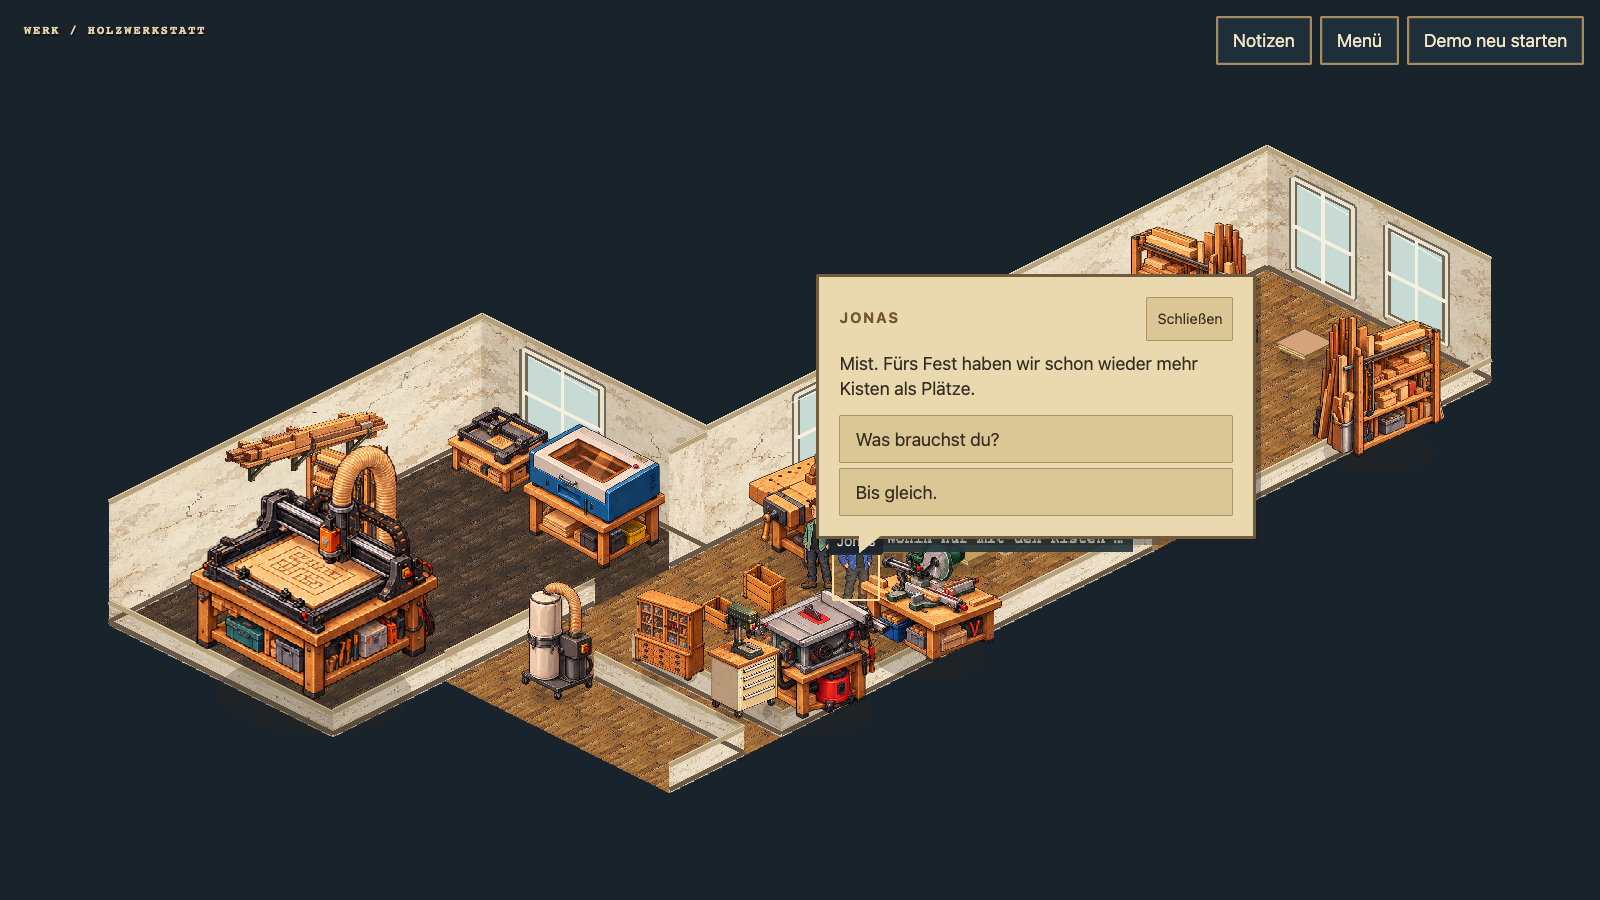
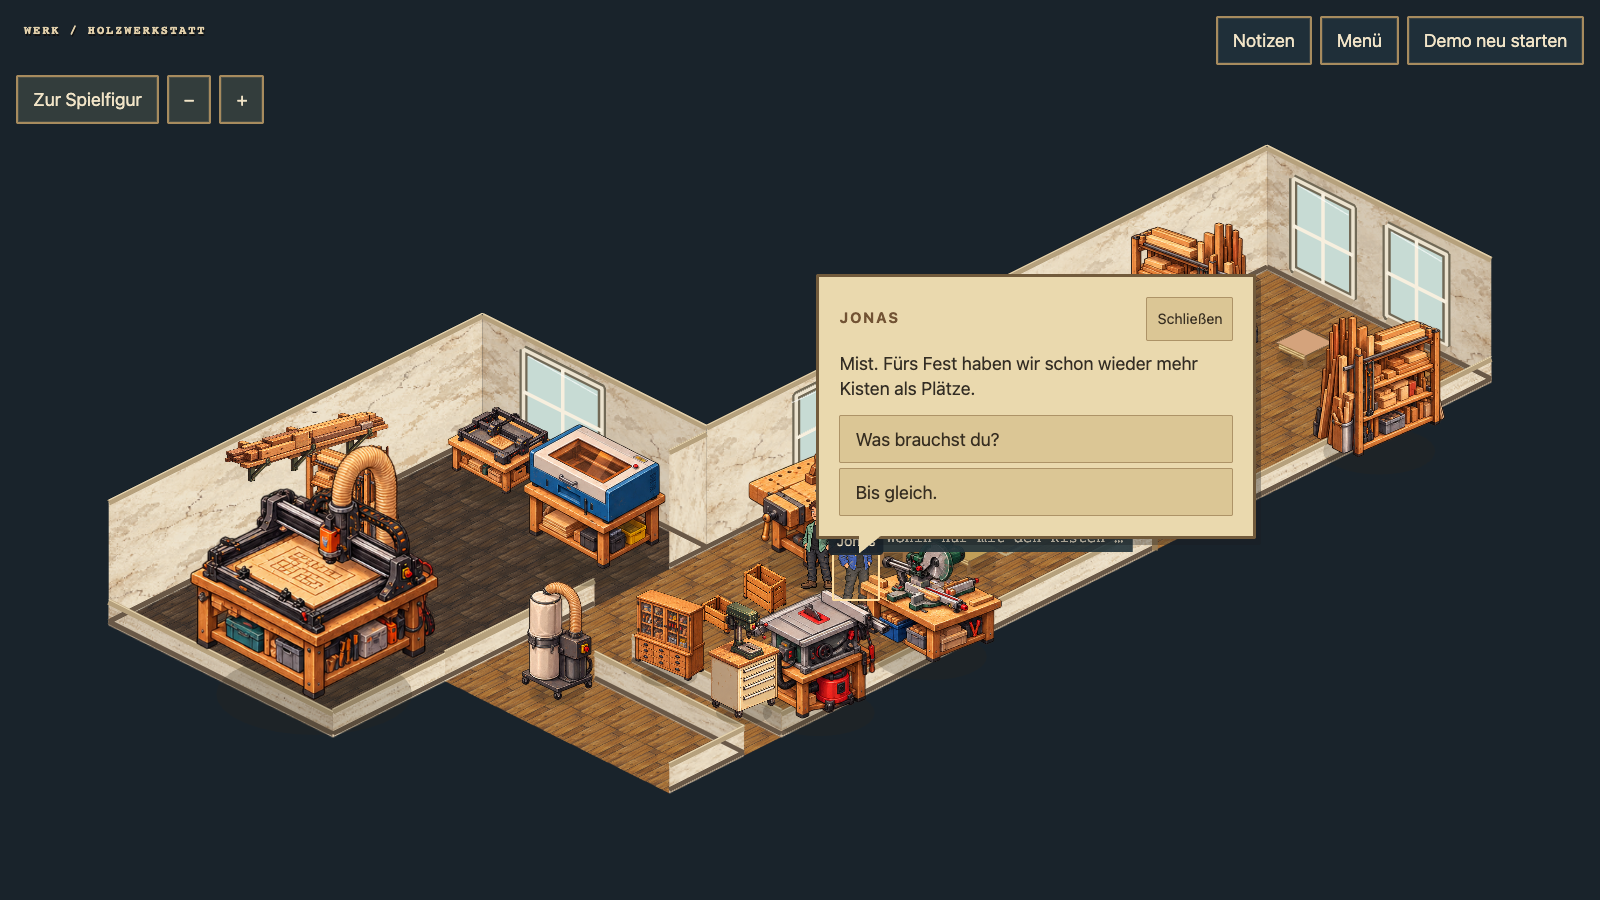
Improve demo clarity with high-DPI rendering and player camera

diff --git a/game/source/room.ts b/game/source/room.ts
@@ -27,6 +27,7 @@ export class Room extends Phaser.Scene {
   private origin = { x: 480, y: 155 };
   private frames = 0; private sampleStart = performance.now();
   private zoomFactor = 1;
+  private overview = false;
   private reduced = matchMedia('(prefers-reduced-motion: reduce)').matches;
   constructor(private hooks: RoomHooks) { super('werk-room'); this.cell = { ...hooks.state().cell }; }
   stop() {
@@ -39,18 +40,24 @@ export class Room extends Phaser.Scene {
   private world(p: Cell) { const q = iso(p); return { x: q.x + this.origin.x, y: q.y + this.origin.y }; }
   private cameraSize = () => {
     if (!this.actor) return;
-    const camera = this.cameras.main, w = this.scale.width, h = this.scale.height;
+    const camera = this.cameras.main, density = visitDemo ? 1 / this.scale.zoom : 1, w = this.scale.width / density, h = this.scale.height / density;
     if(visitDemo){
       const corners=roomConfig!.floorRegions.flatMap(r=>[{x:r.x-.5,y:r.y-.5},{x:r.x+r.w-.5,y:r.y-.5},{x:r.x-.5,y:r.y+r.d-.5},{x:r.x+r.w-.5,y:r.y+r.d-.5}]).map(p=>this.world(p));
       const minX=Math.min(...corners.map(p=>p.x)),maxX=Math.max(...corners.map(p=>p.x)),minY=Math.min(...corners.map(p=>p.y))-140,maxY=Math.max(...corners.map(p=>p.y));
-      camera.setZoom(Math.max(.55,Math.min(1.5,(w-80)/(maxX-minX+80),(h-120)/(maxY-minY+80)))*this.zoomFactor);
-      if(w<650||this.zoomFactor>1.25)camera.startFollow(this.actor,true,.12,.12);else{camera.stopFollow();camera.centerOn((minX+maxX)/2,(minY+maxY)/2);}
+      if(this.overview){
+        camera.setZoom(Math.max(.35,Math.min(1.5,(w-80)/(maxX-minX+80),(h-120)/(maxY-minY+80)))*density);
+        camera.stopFollow();camera.centerOn((minX+maxX)/2,(minY+maxY)/2);
+      }else{
+        camera.setZoom((w<650?1.65:2.25)*this.zoomFactor*density);
+        camera.startFollow(this.actor,true,.12,.12);
+      }
       return;
     }
     camera.setZoom(Math.max(w < 650 ? 1 : .65, Math.min(1.8, Math.min(w / 780, h / 570))) * this.zoomFactor);
     if (w < 650 || this.zoomFactor > 1.25) camera.startFollow(this.actor, true, .12, .12);
     else { camera.stopFollow(); camera.centerOn(480, visitDemo ? 290 : 275); }
   };
+  setOverview(value: boolean) { this.overview = value; this.cameraSize(); }
   zoom(amount: number) { this.zoomFactor = Math.max(.8, Math.min(1.6, this.zoomFactor + amount)); this.cameraSize(); }
   setMeasuring(value: boolean) { this.measuring = value; this.refresh(); }
   ping(id: string) {
@@ -167,9 +174,9 @@ export class Room extends Phaser.Scene {
     }
     const site=this.world(objects.find(o=>o.id==='site')!);
     this.ruler=this.add.graphics().setDepth(2500);
-    this.rulerText=this.add.text(site.x,site.y+48,'90 cm',{fontSize:'18px',color:'#ffe0a3',backgroundColor:'#21323c'}).setOrigin(.5).setDepth(2500);
+    this.rulerText=this.add.text(site.x,site.y+48,'90 cm',{fontSize:'18px',color:'#ffe0a3',backgroundColor:'#21323c'}).setOrigin(.5).setDepth(2500).setResolution(visitDemo?4:1);
     const jonas=this.world(objects.find(o=>o.id==='jonas')!);
-    this.jonasBubble=this.add.text(jonas.x+18,jonas.y-70,'Wohin nur mit den Kisten …',{fontSize:'13px',color:'#f0e5cd',backgroundColor:'#24353be8',padding:{x:8,y:5}}).setDepth(3000);
+    this.jonasBubble=this.add.text(jonas.x+18,jonas.y-70,'Wohin nur mit den Kisten …',{fontSize:'13px',color:'#f0e5cd',backgroundColor:'#24353be8',padding:{x:8,y:5}}).setDepth(3000).setResolution(visitDemo?4:1);
     this.actor=this.figure(0,0,false);this.resetPosition();
     this.scale.on('resize',this.cameraSize);
     this.input.on('pointerdown',(pointer:Phaser.Input.Pointer)=>{
@@ -202,11 +209,11 @@ export class Room extends Phaser.Scene {
     if(!this.actor)return;
     this.frames++;const elapsed=performance.now()-this.sampleStart;
     if(elapsed>=1000){this.hooks.metrics(`${Math.round(this.frames*1000/elapsed)} fps`);this.frames=0;this.sampleStart=performance.now();}
-    const cam=this.cameras.main;
+    const cam=this.cameras.main, screenScale=visitDemo?this.scale.zoom:1;
     const points:Hotspot[]=objects.filter(o=>!(o.id==='crates'&&this.hooks.state().quest.completed)).map(o=>{
-      const p=this.world({x:o.x+((o.w??1)-1)/2,y:o.y+((o.d??1)-1)/2});return{id:o.id,label:o.label,x:(p.x-cam.worldView.x)*cam.zoom,y:(p.y-Math.min(o.height/2,25)-cam.worldView.y)*cam.zoom};
+      const p=this.world({x:o.x+((o.w??1)-1)/2,y:o.y+((o.d??1)-1)/2});return{id:o.id,label:o.label,x:(p.x-cam.worldView.x)*cam.zoom*screenScale,y:(p.y-Math.min(o.height/2,25)-cam.worldView.y)*cam.zoom*screenScale};
     });
-    if(this.measuring){const p=this.world(objects.find(o=>o.id==='site')!);for(const [id,offset]of [['measure_start',-55],['measure_end',55]] as const)points.push({id,label:id==='measure_start'?'Anfang des Maßbands':'Ende des Maßbands',x:(p.x+offset-cam.worldView.x)*cam.zoom,y:(p.y+28-cam.worldView.y)*cam.zoom});}
+    if(this.measuring){const p=this.world(objects.find(o=>o.id==='site')!);for(const [id,offset]of [['measure_start',-55],['measure_end',55]] as const)points.push({id,label:id==='measure_start'?'Anfang des Maßbands':'Ende des Maßbands',x:(p.x+offset-cam.worldView.x)*cam.zoom*screenScale,y:(p.y+28-cam.worldView.y)*cam.zoom*screenScale});}
     this.hooks.hotspots(points);
     if(this.hooks.paused()||document.hidden)return;
     if(!this.target){

diff --git a/game/source/main.ts b/game/source/main.ts
@@ -255,6 +255,9 @@ $('menu-button').onclick = menu;
 if(visitDemo){
  const badge=document.createElement('div');badge.id='demo-badge';badge.textContent='WERK / HOLZWERKSTATT';document.getElementById('play')!.append(badge);
  const restart=document.createElement('button');restart.id='demo-restart';restart.textContent='Demo neu starten';restart.onclick=()=>{for(const d of [talk,panel,planner])if(d.open)d.close();$('new-game').click();};$('hud').append(restart);
+ const views=document.createElement('div');views.id='view-controls';$('play').append(views);
+ let overview=false;const view=addButton(views,'Gesamtansicht',()=>{overview=!overview;room.setOverview(overview);view.textContent=overview?'Zur Spielfigur':'Gesamtansicht';view.setAttribute('aria-pressed',String(overview));});view.setAttribute('aria-pressed','false');
+ addButton(views,'−',()=>room.zoom(-.2)).setAttribute('aria-label','Ansicht weiter');addButton(views,'+',()=>room.zoom(.2)).setAttribute('aria-label','Ansicht näher');
  const note=document.createElement('p');note.className='secondary';note.textContent='Spielbare Technikdemo · vereinfachter Raum nach Werkstattfotos. Messung und Bau sind simuliert.';$('start').append(note);
 }
 async function exportState(previous = false) {
@@ -360,7 +363,14 @@ room = new Room({ state: () => state, paused, interact: inspect, say, hotspots,
   metrics: text => { metrics = text; updateDebug(); },
   ready: () => { performance.mark('werk-ready'); document.body.dataset.ready = 'true'; },
 });
-new Phaser.Game({ type: Phaser.AUTO, parent: 'game', width: innerWidth, height: innerHeight, backgroundColor: '#19232b', pixelArt: true, roundPixels: true, scale: { mode: Phaser.Scale.RESIZE }, scene: room });
+// Phaser 4 uses backing-store dimensions plus Scale.NONE zoom for high-DPI rendering.
+// Keep DOM overlays in CSS pixels; pointer conversion remains the Scale Manager's job.
+const displayDensity = () => visitDemo ? Math.min(2, Math.max(1, devicePixelRatio || 1)) : 1;
+const density = displayDensity();
+const game = new Phaser.Game({ type: Phaser.AUTO, parent: 'game', width: Math.round(innerWidth*density), height: Math.round(innerHeight*density), backgroundColor: '#19232b', pixelArt: !visitDemo, roundPixels: !visitDemo, scale: { mode: visitDemo ? Phaser.Scale.NONE : Phaser.Scale.RESIZE, zoom: 1/density }, scene: room });
+if(visitDemo) window.addEventListener('resize', () => {
+  const d=displayDensity();game.scale.setZoom(1/d);game.scale.resize(Math.round(innerWidth*d),Math.round(innerHeight*d));
+});
 const keymap: Record<string, string> = { ArrowUp: 'up', w: 'up', ArrowRight: 'right', d: 'right', ArrowDown: 'down', s: 'down', ArrowLeft: 'left', a: 'left' };
 window.addEventListener('keydown', e => {
   if (e.key === 'F2') { e.preventDefault(); debugEnabled = true; debugPanel(); return; }

diff --git a/game/source/demo-art.ts b/game/source/demo-art.ts
@@ -16,7 +16,7 @@ function textureSurface(scene:Phaser.Scene,key:string,width:number,height:number
  const texture=scene.textures.createCanvas(key,width+2,height+Math.ceil(width/2)+2)!;
  const ctx=texture.context,materials=scene.textures.get('wood-materials').getSourceImage() as HTMLImageElement;
  const half=materials.width/2;
- ctx.imageSmoothingEnabled=false;
+ ctx.imageSmoothingEnabled=true;
  ctx.setTransform(side,.5,0,1,side===1?1:width+1,1);
  ctx.drawImage(materials,wall?half:0,shade?half:0,half,half,0,0,width,height);
  if(wall){ctx.fillStyle=side===1?'rgba(58,42,23,.13)':'rgba(255,244,214,.09)';ctx.fillRect(0,0,width,height);}
@@ -46,7 +46,7 @@ function wall(scene:Phaser.Scene,world:Project,s:NonNullable<typeof roomConfig>[
 function floorTexture(scene:Phaser.Scene,key:string,dark:boolean){
  const texture=scene.textures.createCanvas(key,128,64)!;
  const ctx=texture.context,im=scene.textures.get('wood-materials').getSourceImage() as HTMLImageElement;
- const h=im.width/2;ctx.imageSmoothingEnabled=false;ctx.setTransform(1,.5,-1,.5,64,0);
+ const h=im.width/2;ctx.imageSmoothingEnabled=true;ctx.setTransform(1,.5,-1,.5,64,0);
  ctx.drawImage(im,0,dark?h:0,h/2,h/2,0,0,64,64);texture.refresh();
 }
 export function workshopShell(scene:Phaser.Scene,world:Project){
@@ -58,7 +58,7 @@ export function workshopShell(scene:Phaser.Scene,world:Project){
  // Photo B: high timber storage on the retained west wall of the CNC room.
  const rackPoint=world({x:-.5,y:19.2});
  scene.add.image(rackPoint.x,rackPoint.y-38,'wood-extra','overhead').setOrigin(.5,1).setDisplaySize(140,60).setFlipX(true).setDepth(-650);
- const sign=world({x:8,y:8.5});scene.add.text(sign.x-22,sign.y-94,'WERK',{fontFamily:'monospace',fontStyle:'bold',fontSize:'13px',color:'#65563f'}).setDepth(-650);
+ const sign=world({x:8,y:8.5});scene.add.text(sign.x-22,sign.y-94,'WERK',{fontFamily:'monospace',fontStyle:'bold',fontSize:'13px',color:'#65563f'}).setDepth(-650).setResolution(4);
  // Clear entrance frame at F. No windows are ever generated outside wall data.
  const entry=scene.add.graphics().setDepth(-640);
  for(const x of [9.5,11.5]){const p=world({x,y:8.5});entry.lineStyle(5,0x977c56).lineBetween(p.x,p.y,p.x,p.y-102);}

diff --git a/game/source/style.css b/game/source/style.css
@@ -87,3 +87,9 @@ body[data-demo=visit] .world-hotspot { background: transparent; border-color: tr
 body[data-demo=visit] .world-hotspot:hover, body[data-demo=visit] .world-hotspot:focus-visible { border-color: #ffe0a1; background: #f3d69425; }
 body[data-demo=visit] .measure-point { background: #f6d48d; color: #302a21; border-color: #fff1c6; }
 @media(max-width:750px) { #demo-badge { top: 76px; left: 16px; font-size: 10px; } #demo-restart { font-size: .75rem; padding: 7px; } }
+
+/* Detailed raster art needs filtered downsampling; nearest sampling loses thin details. */
+body[data-demo=visit] #game canvas { image-rendering: auto; }
+#view-controls { position:absolute; left:16px; top:75px; display:flex; gap:8px; }
+body:has(#start:not([hidden])) #view-controls { display:none; }
+@media(max-width:650px) { #view-controls { top:auto; bottom:88px; left:12px; } }

diff --git a/docs/visit-demo/display/bericht.md b/docs/visit-demo/display/bericht.md
@@ -1,0 +1,13 @@
+# Lesbarkeit und Pixeldichte · 28. Oktober 2026
+
+Die Gesamtansicht verkleinerte detailreiche Rastergrafiken auf sehr wenige Bildpunkte (Figuren: 78 Weltpixel, durch die Übersichtskamera teils noch kleiner). Nearest-Neighbor-Abtastung beim starken Verkleinern verwarf dünne Konturen. Der Canvas nutzte zudem nur CSS-Pixel statt der höheren Bildschirmdichte.
+
+Die Besuchsdemo startet jetzt mit einer mitlaufenden Kamera bei 2,25-facher Vergrößerung auf Desktop, 1,65 auf schmalen Geräten. Desktop-Figuren erscheinen damit etwa 176 CSS-Pixel hoch. Gesamtansicht und Rückkehr zur Spielfigur sind direkt erreichbar; Plus/Minus verändern die Detailansicht. Die Gesamtansicht bleibt naturgemäß weniger detailreich.
+
+Phaser 4 rendert im Demo-Modus in einer entsprechend größeren Zeichenfläche mit inverser Scale-Manager-Skalierung. Die Pixeldichte ist auf 2 begrenzt, damit die Zeichenfläche auf hochauflösenden Geräten nicht unbegrenzt wächst. DOM-Sprechblasen und Interaktionsflächen bleiben in CSS-Pixeln. Fenstergrößen- und Pixeldichteänderungen werden beim Resize neu ausgewertet. Rastergrafiken werden gefiltert verkleinert; Canvas-Texte erhalten höhere interne Textauflösung. Der bestehende Phase-2B-Modus bleibt bei seiner bisherigen Darstellung.
+
+Prüfung: `tools/display-check.mjs` prüft DPR 1 und 2, Zeichenflächenmaße, Touch-Auswahl von Jonas und Auswahl nach Resize auf 1024 × 768. Ergebnisse und echte Browser-Screenshots liegen in diesem Verzeichnis. `tools/visit-check.mjs` prüft den vollständigen Questablauf in der Gesamtansicht sowie Offline-Speicherung und Browser-Neustart. Detailkamera und Retina-Darstellung werden separat geprüft. Build und 11 Fachtests bestehen.
+
+Die Browserprüfungen verwenden Chrome mit Software-Grafiktreiber und simulierten Touch-Ereignissen. Sie belegen keine Bildrate oder Lesbarkeit am tatsächlichen externen Touchscreen. Diesen Gerätetest bitte vor der Vorführung durchführen.
+
+Bereits geöffnete Offline-Tabs können noch die alte Fassung anzeigen: Alle Tabs dieses lokalen Demo-Ursprungs schließen und die Demo erneut öffnen. Bei einem bereitstehenden Update kann ein erster Besuch den Download anstoßen; anschließend nochmals alle Demo-Tabs schließen und neu öffnen. Der Spielstand bleibt erhalten.
